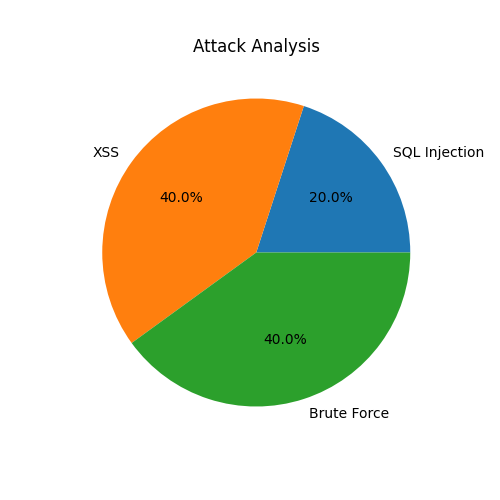
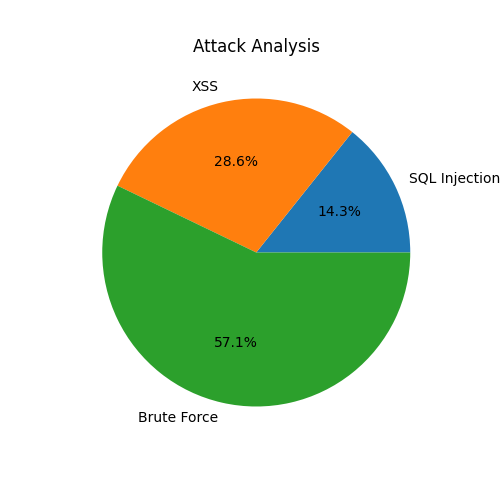
improvements

diff --git a/app.py b/app.py
@@ -13,7 +13,13 @@ matplotlib.use('Agg')
 
 import matplotlib.pyplot as plt
 
-from flask import Flask, render_template, request
+from flask import (
+    Flask,
+    render_template,
+    request,
+    redirect,
+    url_for
+)
 
 app = Flask(__name__)
 
@@ -24,6 +30,15 @@ app = Flask(__name__)
 os.makedirs("logs", exist_ok=True)
 os.makedirs("database", exist_ok=True)
 os.makedirs("static", exist_ok=True)
+
+# --------------------------
+# CREATE LOG FILE IF NOT EXISTS
+# --------------------------
+
+if not os.path.exists("logs/access.log"):
+
+    with open("logs/access.log", "w") as file:
+        file.write("=== SIEM LOG FILE ===\n\n")
 
 # --------------------------
 # FAILED LOGIN STORAGE
@@ -104,7 +119,7 @@ def generate_chart(sql_count, xss_count, brute_force_count):
         brute_force_count
     ]
 
-    # Prevent empty pie chart error
+    # Prevent empty chart error
     if sum(sizes) == 0:
         sizes = [1, 1, 1]
 
@@ -118,7 +133,7 @@ def generate_chart(sql_count, xss_count, brute_force_count):
 
     plt.title("Attack Analysis")
 
-    plt.savefig('static/chart.png')
+    plt.savefig("static/chart.png")
 
     plt.close()
 
@@ -140,7 +155,10 @@ def login():
 
         user_input = username + " " + password
 
-        # Demo Login Credentials
+        # --------------------------
+        # DEMO LOGIN
+        # --------------------------
+
         correct_username = "admin"
         correct_password = "1234"
 
@@ -167,6 +185,7 @@ STATUS: Successful Login
         # --------------------------
 
         if ip_address not in failed_attempts:
+
             failed_attempts[ip_address] = 0
 
         failed_attempts[ip_address] += 1
@@ -283,9 +302,13 @@ def admin():
         username = request.form['username']
         password = request.form['password']
 
-        if username == "admin" and password == "admin123":
+        # Admin Credentials
+        ADMIN_USERNAME = "admin"
+        ADMIN_PASSWORD = "admin123"
 
-            return dashboard()
+        if username == ADMIN_USERNAME and password == ADMIN_PASSWORD:
+
+            return redirect(url_for('dashboard'))
 
         return "Invalid Admin Credentials"
 
@@ -299,6 +322,7 @@ def admin():
 def dashboard():
 
     with open("logs/access.log", "r") as file:
+
         alerts = file.read()
 
     # --------------------------
@@ -318,6 +342,7 @@ def dashboard():
         for line in lines:
 
             if search_query.lower() in line.lower():
+
                 filtered_logs.append(line)
 
         alerts = "\n".join(filtered_logs)
@@ -339,7 +364,7 @@ def dashboard():
     )
 
     # --------------------------
-    # GENERATE CHART
+    # GENERATE PIE CHART
     # --------------------------
 
     generate_chart(
@@ -359,7 +384,9 @@ def dashboard():
     for line in reversed(lines):
 
         if "ALERT:" in line:
+
             latest_alert = line
+
             break
 
     # --------------------------
@@ -382,4 +409,5 @@ def dashboard():
 # --------------------------
 
 if __name__ == '__main__':
+
     app.run(debug=False)
